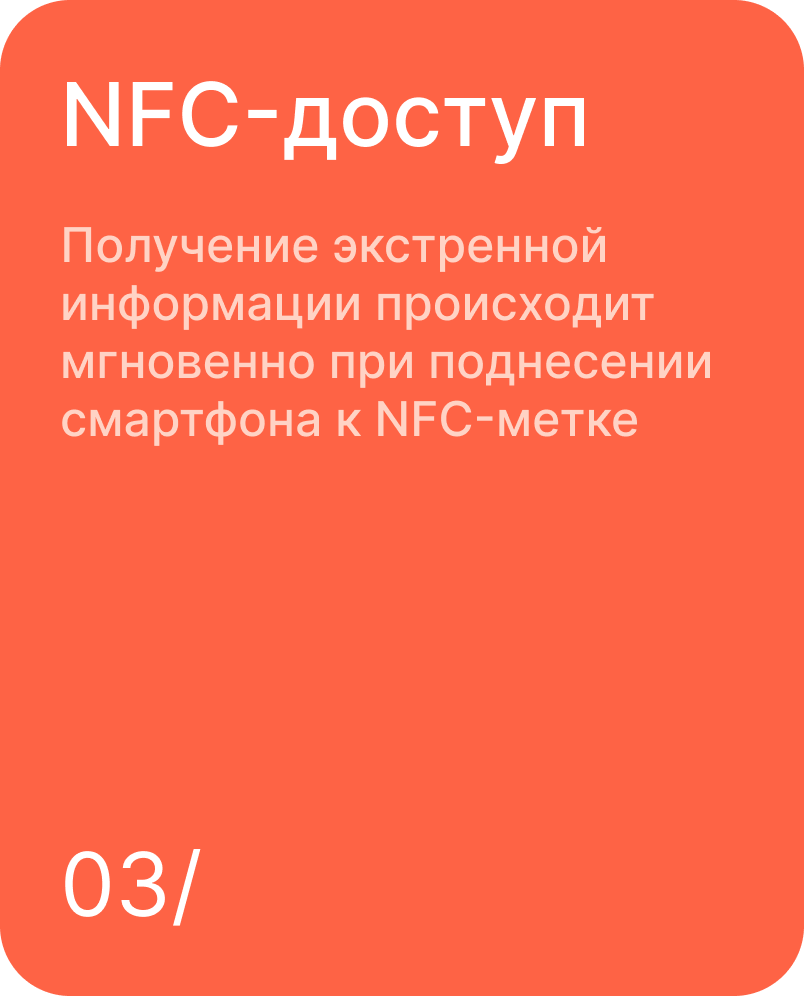
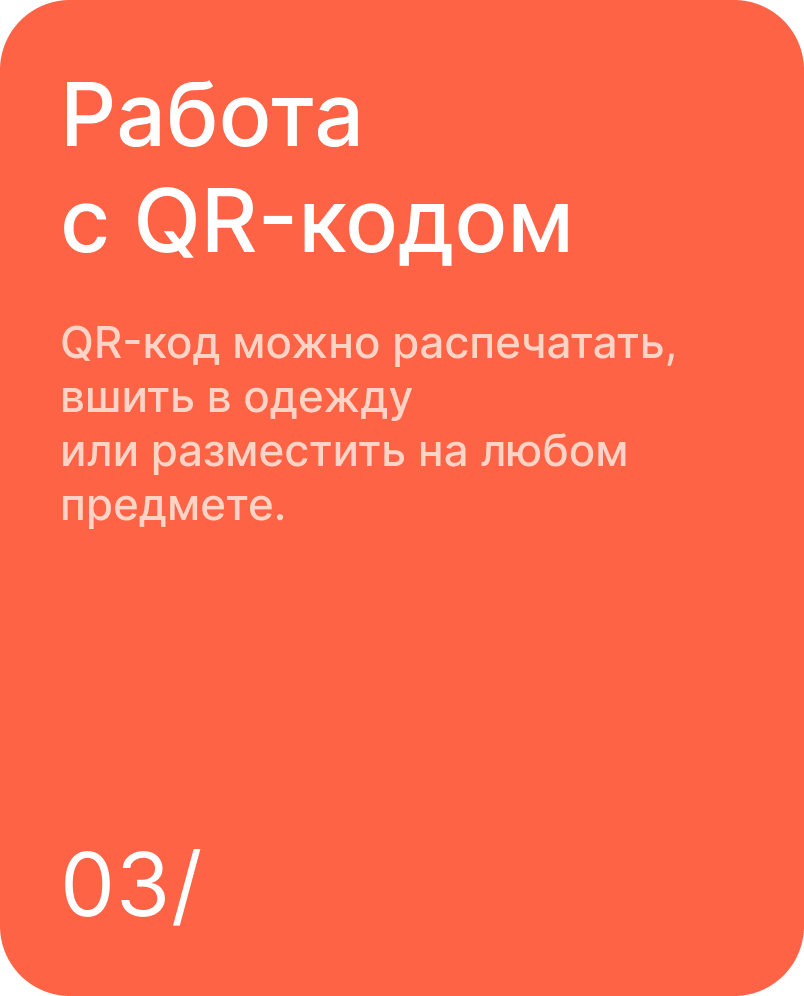
qr code

Changed region(s): [[0.0622, 0.0622, 0.9017, 0.4669], [0.0622, 0.498, 0.342, 0.5291]]

diff --git a/lib/features/profile/qr_screen.dart b/lib/features/profile/qr_screen.dart
@@ -22,21 +22,18 @@ class _QrScreenState extends State<QrScreen> {
   final GlobalKey _qrKey = GlobalKey();
 
   // ============================================================
-// ПАТЧ v2 для lib/features/profile/qr_screen.dart
-// Заменить метод _qrData целиком (внутри класса _QrScreenState)
-// ============================================================
+  // ПАТЧ v2 для lib/features/profile/qr_screen.dart
+  // Заменить метод _qrData целиком (внутри класса _QrScreenState)
+  // ============================================================
 
   String get _qrData {
     final d = widget.profileData;
 
-    // Пустой профиль
-    if (d.lastName.isEmpty && d.firstName.isEmpty) {
-      return 'Профиль не заполнен';
-    }
-
-    // --- Имя (без отчества) ---
-    final fn = '${d.lastName} ${d.firstName}'.trim();
-    final n  = '${d.lastName};${d.firstName};;;';
+    // --- Имя: подсказка для iOS превью камеры ---
+    // iOS показывает FN/N в превью — используем как инструкцию пользователю
+    const hint = 'Сохраните контакт чтобы увидеть данные';
+    const fn = hint;
+    const n  = 'Сохраните контакт чтобы увидеть данные;;;;';
 
     // --- Дата рождения: DD.MM.YYYY → YYYY-MM-DD ---
     // Формат с дефисами работает корректно и на iOS и на Android
@@ -57,19 +54,25 @@ class _QrScreenState extends State<QrScreen> {
     // iOS показывает NOTE только после нажатия "Добавить контакт" — это ограничение Apple
     // Android показывает NOTE сразу в превью
     final noteLines = <String>[];
+    // "Это Имя Фамилия"
+    final realName = '${d.firstName} ${d.lastName}'.trim();
+    if (realName.isNotEmpty) noteLines.add('Это $realName');
+    // "Телефон - Кем приходится"
+    if (rawPhone.isNotEmpty && d.contactRole.isNotEmpty) {
+      noteLines.add('$rawPhone - ${d.contactRole}');
+    } else if (rawPhone.isNotEmpty) {
+      noteLines.add(rawPhone);
+    }
+    if (d.birthDate.isNotEmpty)   noteLines.add('ДР: ${d.birthDate}');
     if (d.bloodType.isNotEmpty || d.rhFactor.isNotEmpty) {
       noteLines.add('Группа крови: ${d.bloodType} ${d.rhFactor}'.trim());
     }
+    if (d.height.isNotEmpty)      noteLines.add('Рост: ${d.height}');
+    if (d.weight.isNotEmpty)      noteLines.add('Вес: ${d.weight}');
     if (d.allergies.isNotEmpty)   noteLines.add('Аллергии: ${d.allergies}');
     if (d.medications.isNotEmpty) noteLines.add('Лекарства: ${d.medications}');
     if (d.conditions.isNotEmpty)  noteLines.add('Болезни: ${d.conditions}');
-    if (d.height.isNotEmpty)      noteLines.add('Рост: ${d.height}');
-    if (d.weight.isNotEmpty)      noteLines.add('Вес: ${d.weight}');
     if (d.notes.isNotEmpty)       noteLines.add('Заметки: ${d.notes}');
-    if (d.contactName.isNotEmpty) {
-      final label = d.contactRole.isNotEmpty ? d.contactRole : 'Контакт';
-      noteLines.add('$label: ${d.contactName}');
-    }
 
     // Переносы строк внутри NOTE экранируются как \n (литерально)
     final note = noteLines.join('\\n');
@@ -100,7 +103,7 @@ class _QrScreenState extends State<QrScreen> {
 
     return lines.join('\r\n');
   }
-
+  
   Future<Uint8List?> _captureQrImage() async {
     try {
       final boundary = _qrKey.currentContext?.findRenderObject()

diff --git a/lib/features/scan/scan_screen.dart b/lib/features/scan/scan_screen.dart
@@ -18,7 +18,6 @@ class _ScanScreenState extends State<ScanScreen> {
     'assets/images/2.png',
     'assets/images/3.png',
     'assets/images/4.png',
-    'assets/images/5.png',
   ];
 
   @override